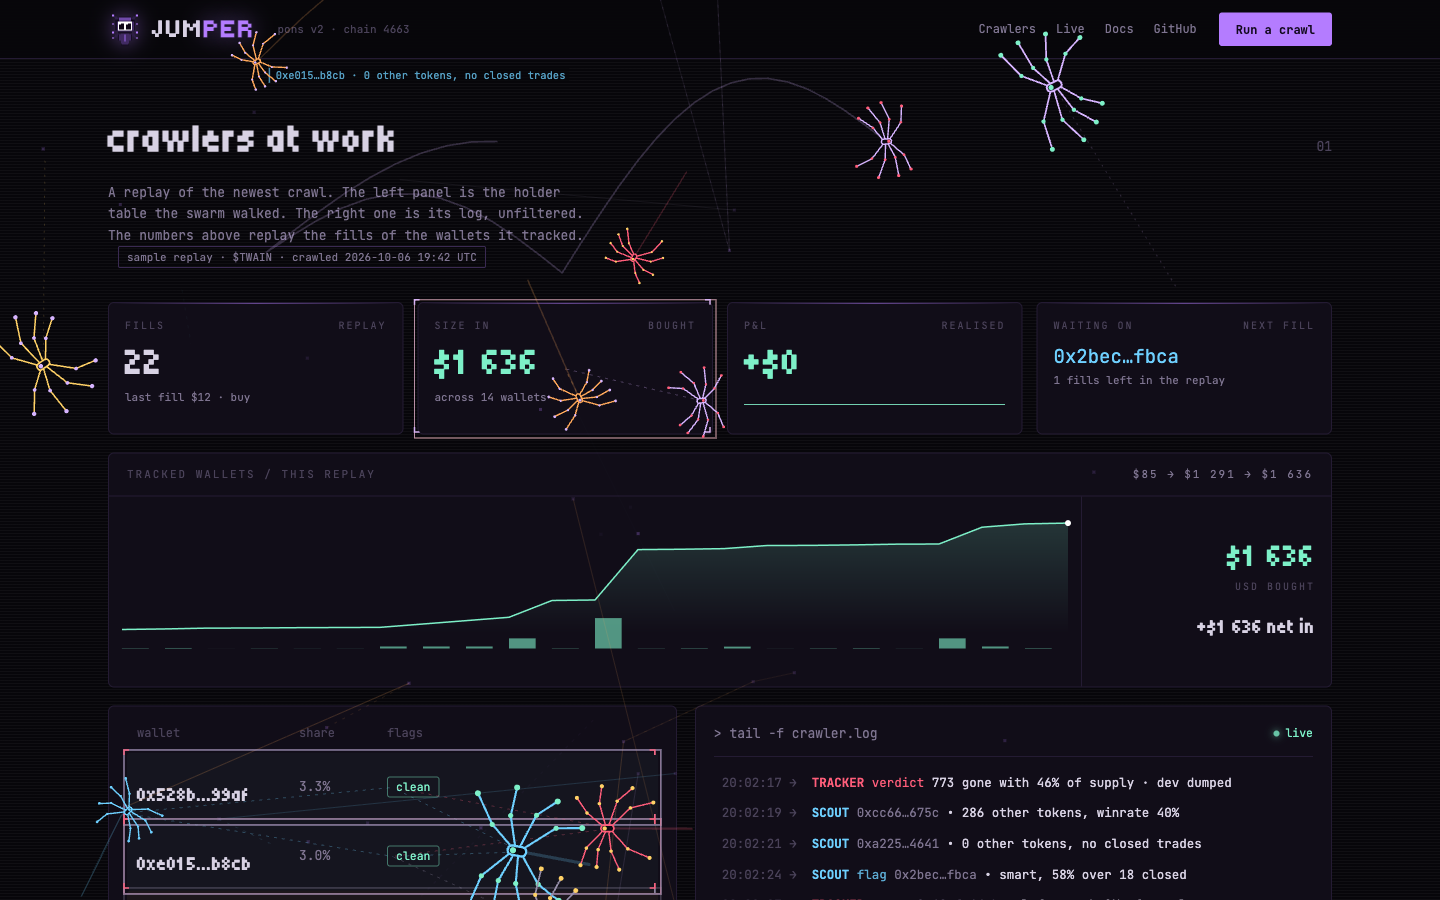
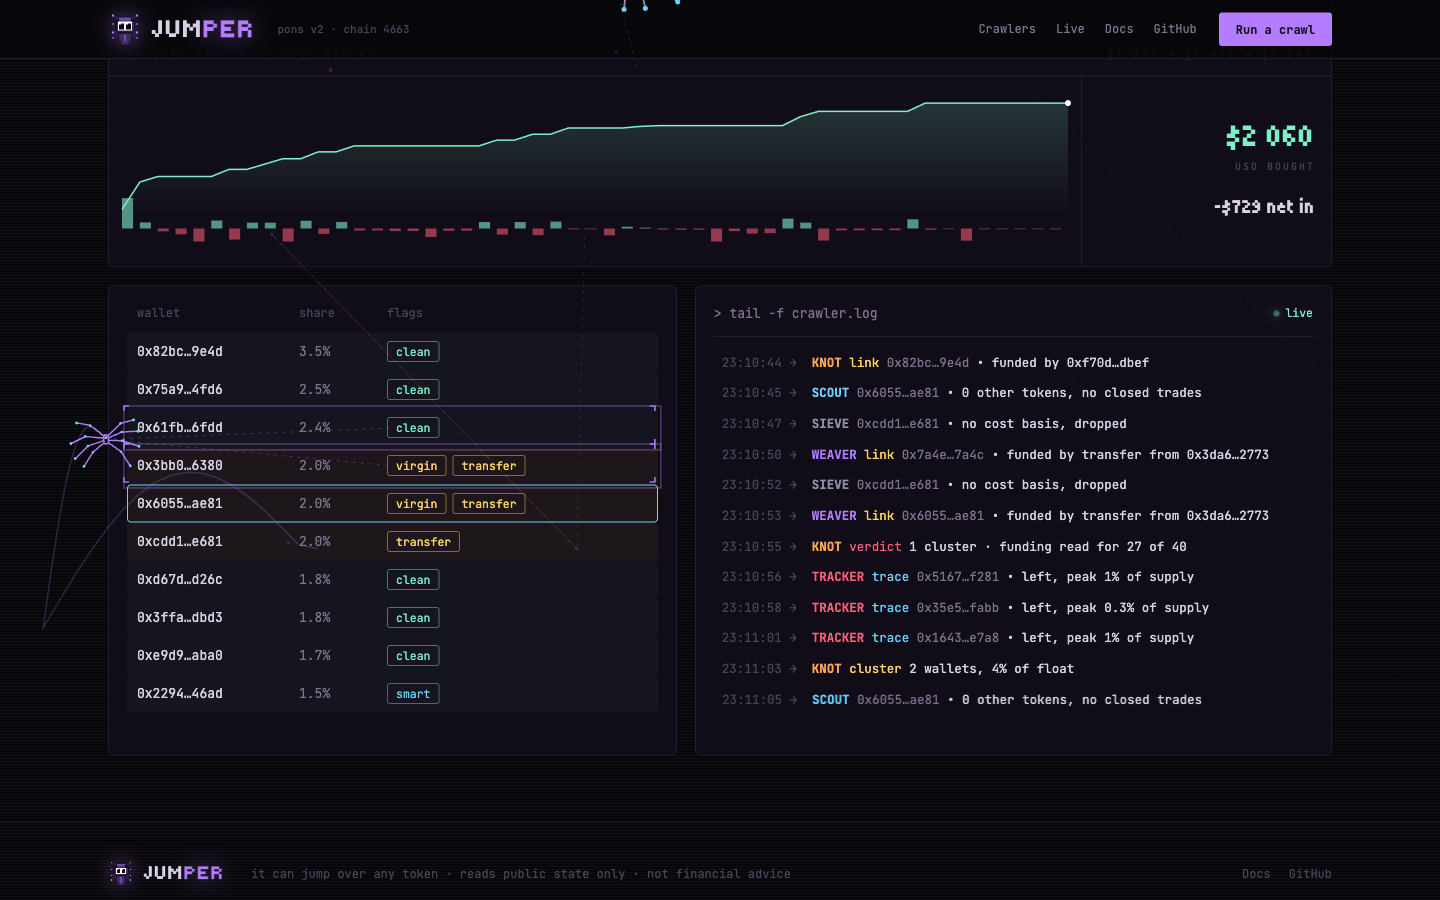
readme: fresh screenshots of the room, the crawl, the report and the holders

diff --git a/web/app/globals.css b/web/app/globals.css
@@ -404,7 +404,7 @@ button.inputchip{all:unset}
 
 /* the report: score block and a card as tall as it, then the holders across the full width */
 .repwrap{grid-template-columns:minmax(0,1fr) auto;max-width:1680px}
-.repcore{min-width:0}
+.repcore{min-width:0;align-self:start}
 .repside{align-self:start}
 .repside .shareprev img{width:100%;height:100%;object-fit:contain;display:block}
 .repfull{grid-column:1/-1;min-width:0}

diff --git a/README.md b/README.md
@@ -31,13 +31,17 @@ Read only. No wallet connection, no keys for the basics, no signatures, no trans
 
 ### One crawl, start to finish
 
-<p align="center"><img src="assets/readme/site-crawl.png" width="100%" alt="A crawl running: contract, transactions, holders and wallet history in four layers, crawlers coloring nodes" /></p>
+<p align="center"><img src="assets/readme/site-crawl.png" width="100%" alt="A crawl running in the room: the holder graph building on the back wall, finished desks green, KNOT working, the rest waiting their turn" /></p>
 
-The swarm walks the token in four layers: the contract, its transactions, the holders, and every other token those holders ever traded. Nodes turn green for wallets still holding, cyan for smart money, yellow for snipers, red for wallets that left. Each crawler's bar runs queued, running, done as the stream comes in.
+A crawl plays out in the room. The holder graph builds on the back wall in four layers: the contract, its transactions, the holders, and every other token those holders ever traded; nodes turn green for wallets still holding, cyan for smart money, yellow for snipers, red for wallets that left. Each crawler's desk lights up while it works, with its live progress and its newest line; waiting crawlers doze, finished desks turn green with their result.
 
-<p align="center"><img src="assets/readme/site-report.png" width="100%" alt="The report: band, score, the WEB, SILK, SNARE and EXIT quadrants, and the share card" /></p>
+<p align="center"><img src="assets/readme/site-report.png" width="100%" alt="The report: band, score and the points that built it, the WEB, SILK, SNARE and EXIT quadrants, the share card beside them" /></p>
 
-The report folds it into four questions. **WEB**: do the early holders still hold, at 5m, 15m, 1h, 6h, 24h. **SILK**: does anyone here know what they are doing. **SNARE**: how much went before a human could read the ticker. **EXIT**: is anyone leaving right now. The card on the right is the share image, rendered on the server from the same report.
+The report folds it into four questions. **WEB**: do the people who bought still hold, at 5m, 15m, 1h, 6h, 24h. **SILK**: does anyone here know what they are doing. **SNARE**: how much went before a human could read the ticker. **EXIT**: what the last hour did, both sides. Above them, the points that built the score. The card beside them is the share image, rendered on the server from the same report.
+
+<p align="center"><img src="assets/readme/site-holders.png" width="100%" alt="The top 50 holders: each wallet with its roles (whale, insider, dev, fresh wallet, trader, smart, bot, sniper), share, time held, value and return" /></p>
+
+Below, the top 50 holders by share of supply, and who each one is: **dev**, **insider** (got tokens from the dev, was funded by it, or sat in the launch bundle), **sniper**, **bot** (thousands of markets, or a 90% winrate over fifty trades), **whale** (3% of supply or $25k), **smart**, **bundle**, **fresh wallet** (this token is its first trade), **trader** with its record. Each row links to the wallet on Blockscout.
 
 ## Run it
 
